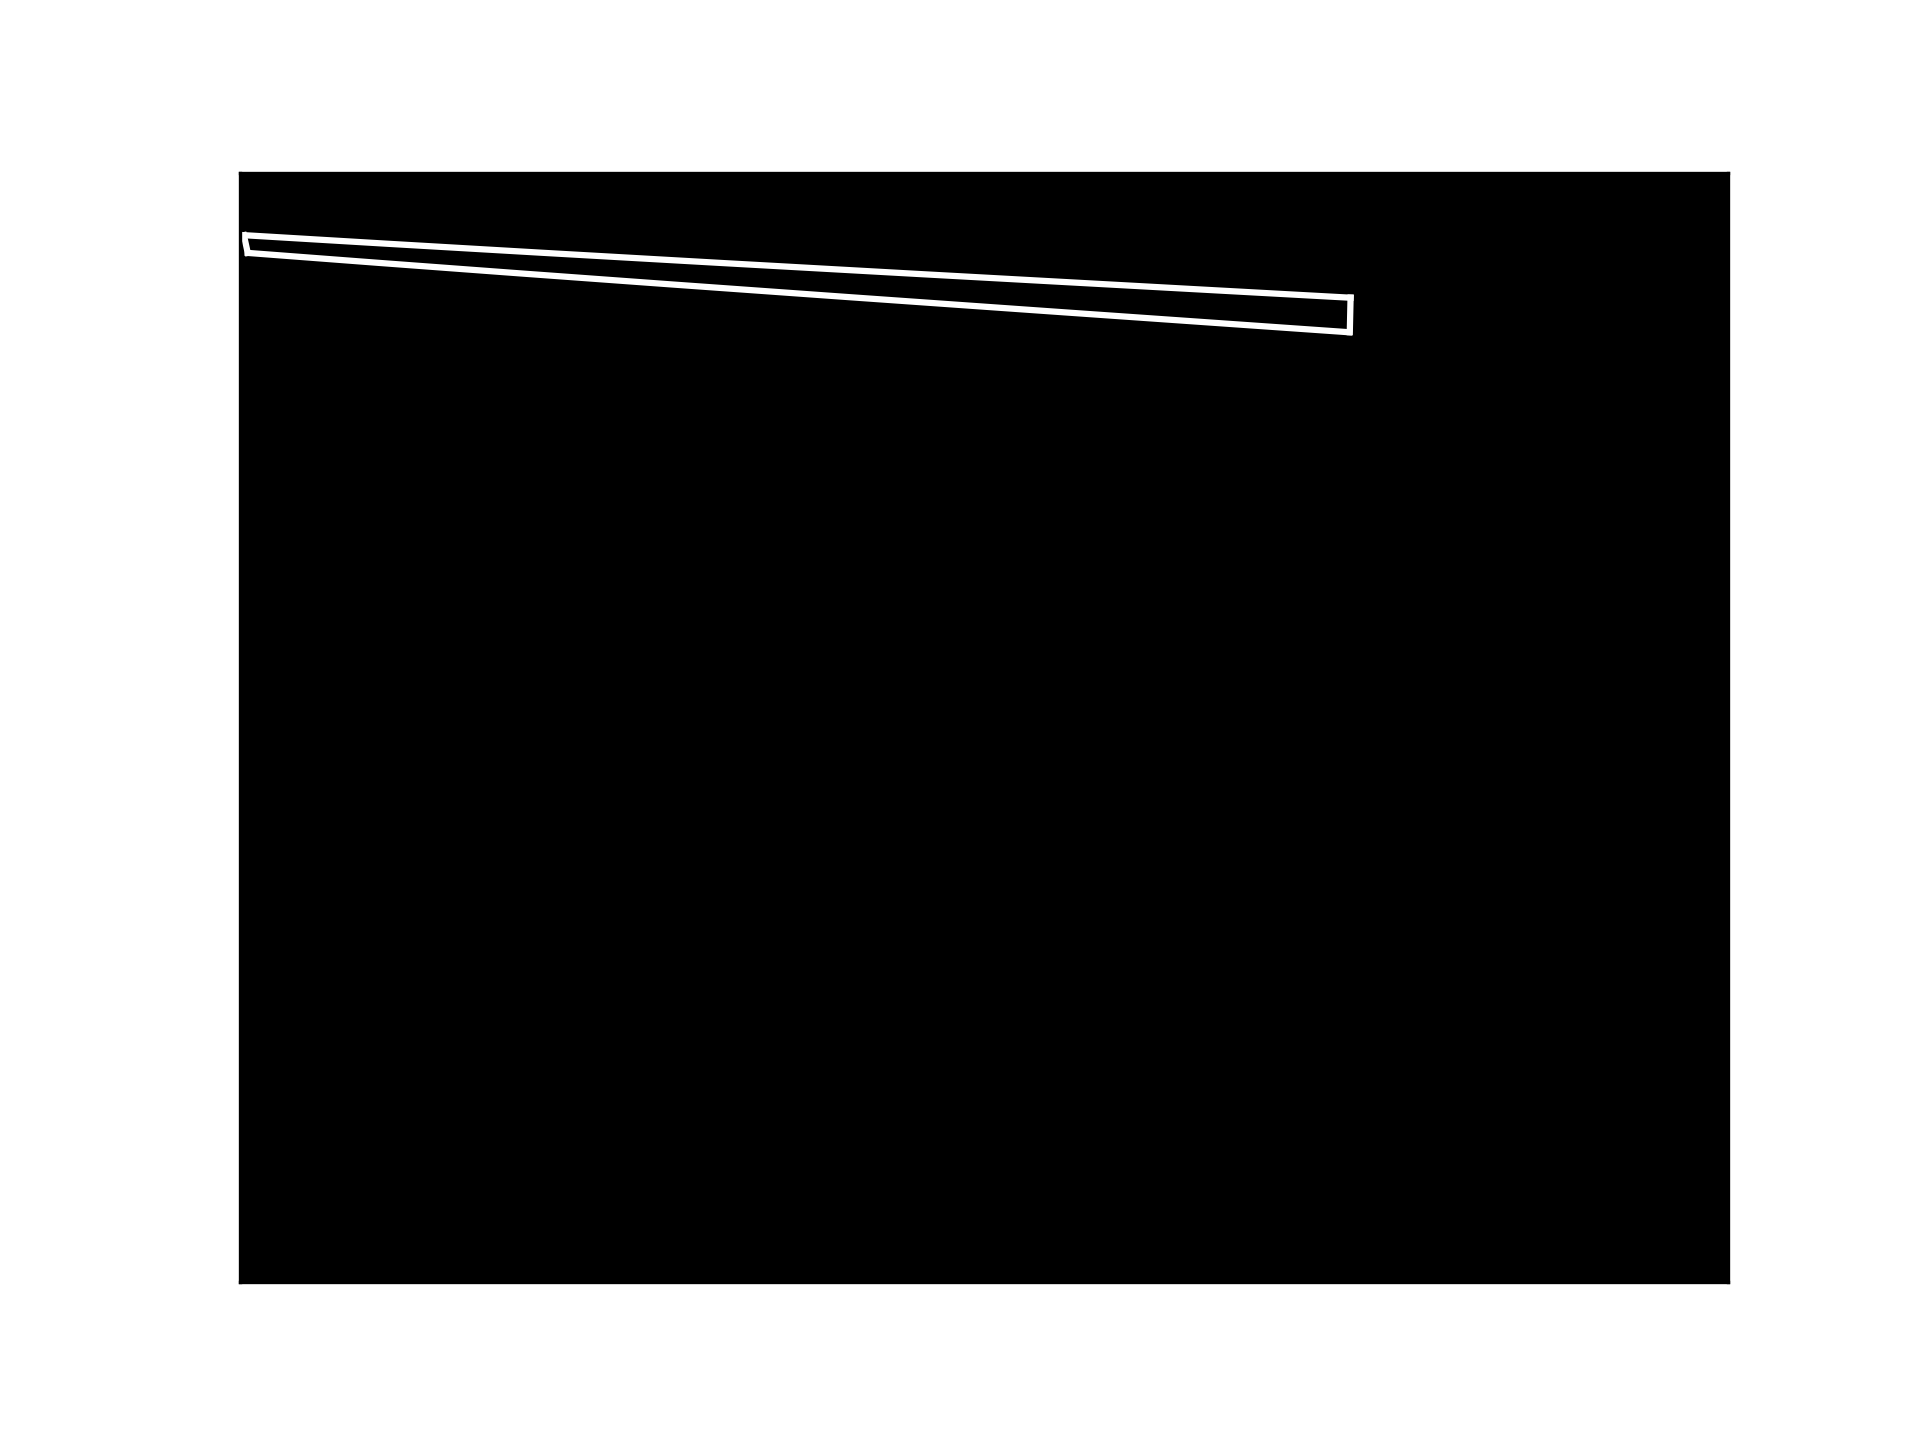
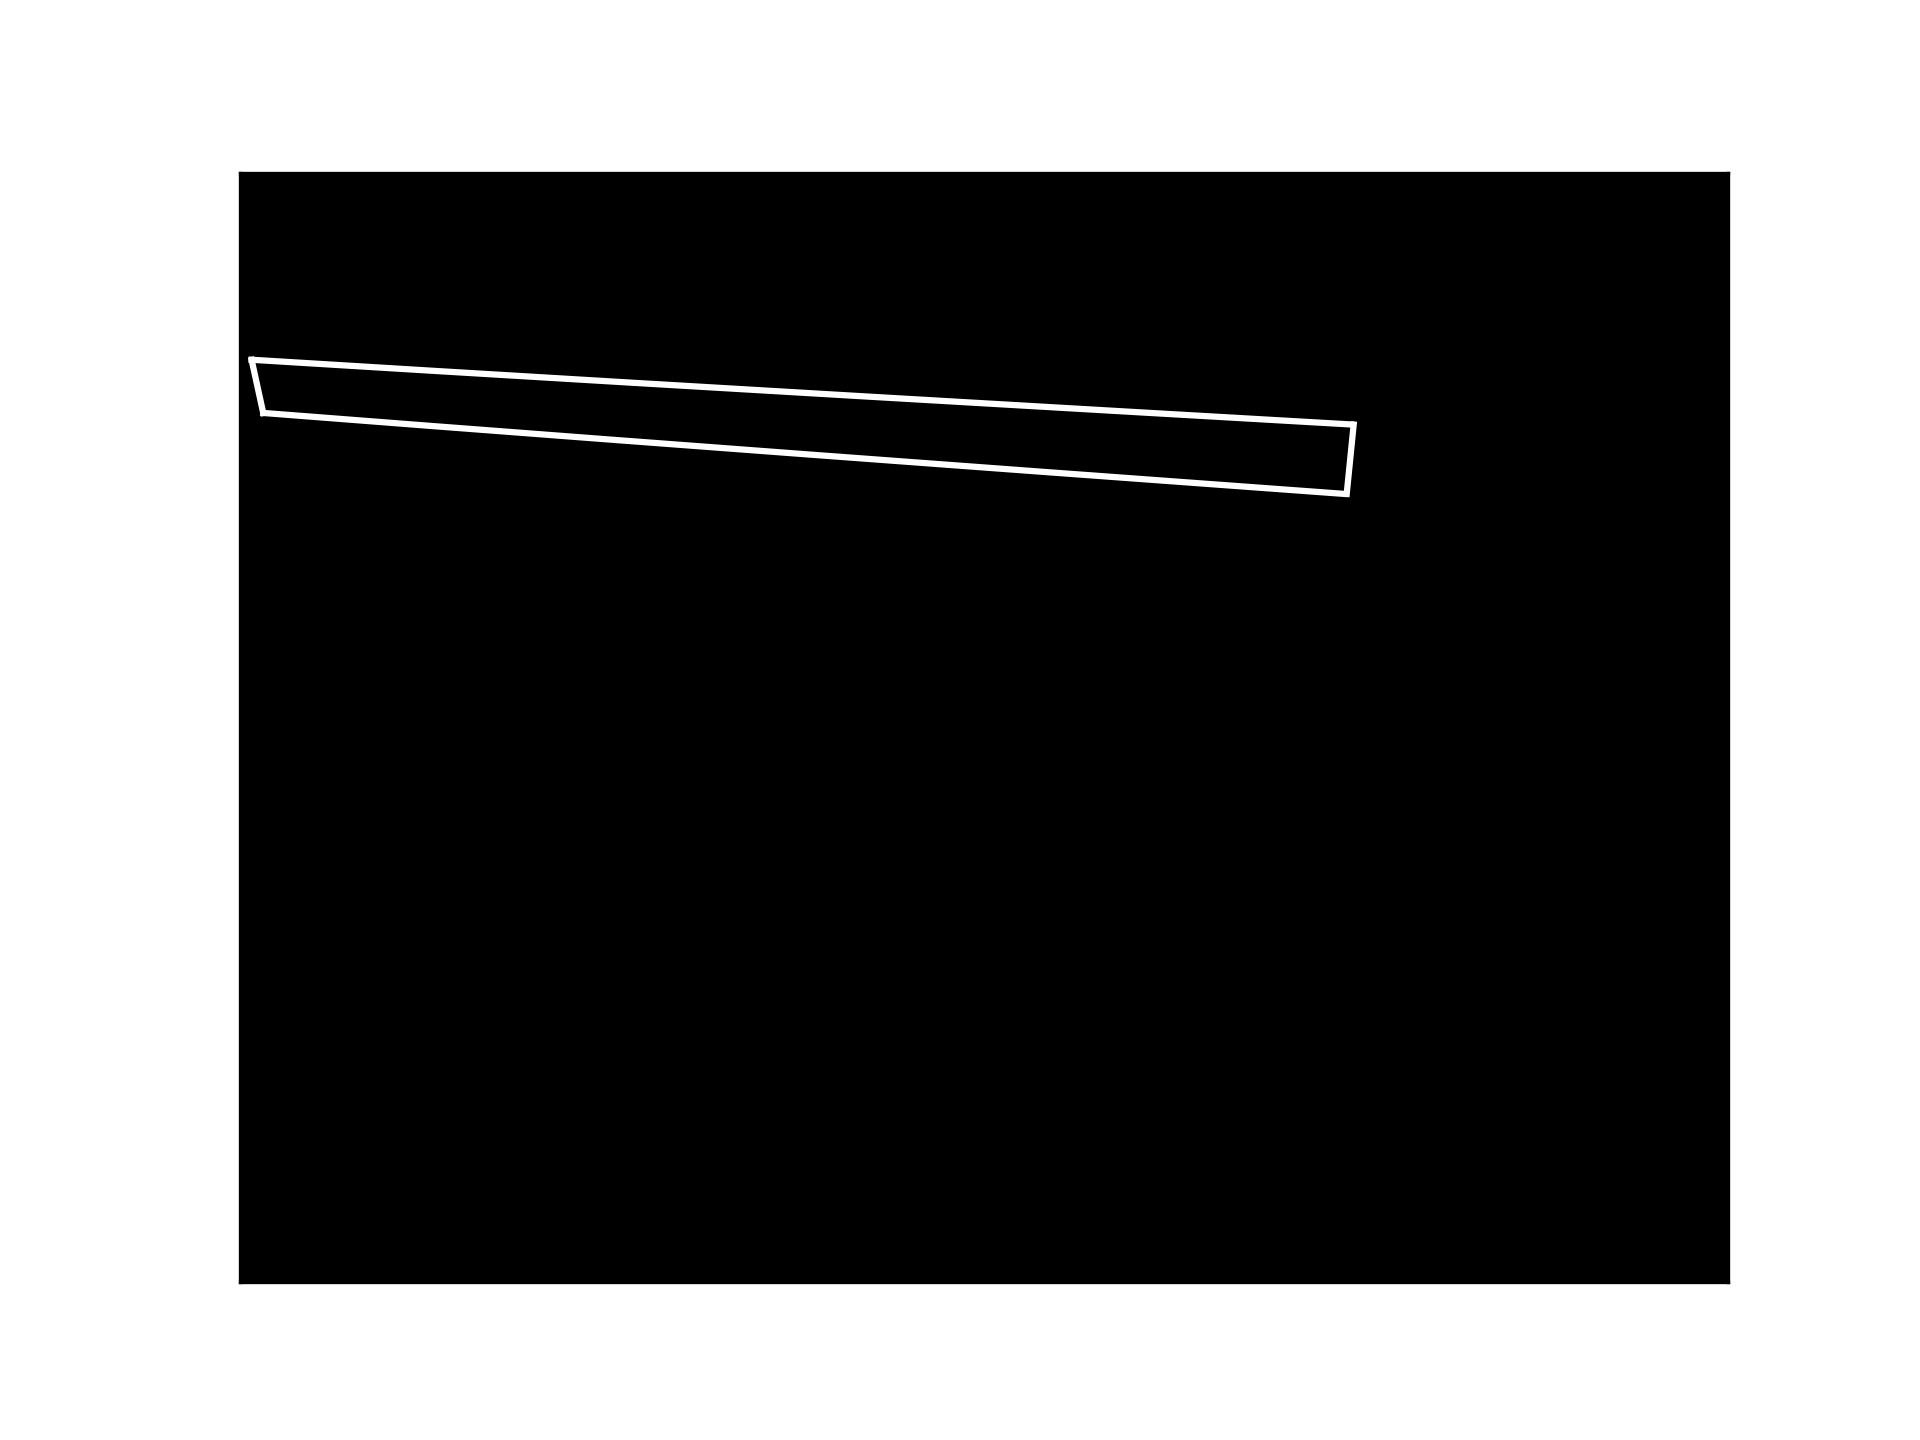
just for fun

Changed region(s): [[0.125, 0.1562, 0.7188, 0.25], [0.125, 0.25, 0.5312, 0.3125], [0.4062, 0.2812, 0.7188, 0.3438]]

diff --git a/arithmetic++/for_Image++.py b/arithmetic++/for_Image++.py
@@ -22,7 +22,7 @@ def f_1(x, A, B):
 def f_3(x, A, B, C, D):
     return A * x * x * x + B * x * x + C * x + D
 def plot_feasible_region():
-    x,y = np.arange(0,1.920,0.001),np.arange(0,1.440,0.001)
+    x,y = np.arange(0,0.64,0.001),np.arange(0,0.48,0.001)
     X_H1, Y_H1 = [], []
     X_H2, Y_H2 = [], []
     for x_key in x:
@@ -35,9 +35,7 @@ def plot_feasible_region():
             elif ky ==240:
                 x2, y2 = x_key * 1.0, y_key * 1.0
                 X_H2.append(y2), Y_H2.append(x2)
-    # 绘制散点
-    # plt.scatter(X_H1[:], Y_H1[:], 1, "red")
-    # plt.figure(num=None, figsize=None, dpi=300,  edgecolor=None, frameon=True)
+
     # 直线拟合与绘制数据准备
     X0, Y0 = [], []
     X0.append([X_H1[0], X_H2[0]]), X0.append([X_H1[-1], X_H2[-1]]), Y0.append([Y_H1[0], Y_H2[0]]), Y0.append([Y_H1[-1], Y_H2[-1]])
@@ -52,9 +50,15 @@ def plot_feasible_region():
     x4 = np.arange(X0[0][1], X0[1][1], 0.001)
     y4 = A3 * x4 * x4 * x4 + B3 * x4 * x4 + C3 * x4 + D3
     axes = plt.subplot(facecolor='black')
-    plt.xlim(0, 1.920)
+    ax = plt.gca()
+    '''ax.spines表示为设置脊梁，即四个边框'''
+    ax.spines["right"].set_color('black')
+    ax.spines["top"].set_color('black')
+    ax.spines["left"].set_color('black')
+    ax.spines["bottom"].set_color('black')
+    plt.xlim(0, 0.64)
     plt.xticks(())
-    plt.ylim(1.440, 0)
+    plt.ylim(0.48, 0)
     plt.yticks(())
     for i in range(len(X0)):  # 要连接的两个点的坐标
         axes.plot(X0[i], Y0[i], color='white')
@@ -68,6 +72,7 @@ def plot_feasible_region():
 
 if __name__=="__main__":
     plot_feasible_region()
+
 
 
 

diff --git a/arithmetic++/封闭区域找内切圆.py b/arithmetic++/封闭区域找内切圆.py
@@ -1,0 +1,38 @@
+# -*- coding: utf-8 -*-
+import cv2
+import cv2.cv2 as cv
+import numpy as np
+
+image=cv2.imread('/home/asus/PycharmProjects/Python class/arithmetic++/Figure_1.png')
+image_bin=cv2.cvtColor(image,cv2.COLOR_RGB2GRAY)
+
+retval,image_bin=cv2.threshold(image_bin,245,255,cv2.THRESH_BINARY_INV)
+
+
+contours, hierarchy = cv2.findContours(image_bin.copy(),cv2.RETR_CCOMP , cv2.CHAIN_APPROX_SIMPLE)
+print(len(contours))
+#
+
+# cv2.drawContours(image_bin, contours, -1, (0, 0, 255), 3)
+# cv2.namedWindow("img",0)
+# cv2.imshow("img", image_bin)
+# cv2.waitKey(0)
+
+image_with_contour=np.zeros(image.shape, np.uint8)
+dist=np.zeros((image.shape[0],image.shape[1]))
+#
+cv2.drawContours(image_with_contour,contours,-1,(255,255,255),1)
+#
+for ind_y in range(image.shape[0]):
+    for ind_x in range(image.shape[1]):
+        dist[ind_y,ind_x] = cv2.pointPolygonTest(contours[0],(ind_y,ind_x),True)
+#
+minVal, maxVal, minLoc, maxLoc = cv2.minMaxLoc(dist)
+print(maxVal, minLoc, maxLoc)
+cv2.circle(image,(maxLoc[1],maxLoc[0]),int(maxVal),(0, 255, 0),-1)
+
+cv2.imshow('original', image)
+cv2.imshow('contour', image_with_contour)
+
+cv2.waitKey(0)
+cv2.destroyAllWindows()

diff --git a/arithmetic++/双线型插值法/双线性插值反卷积.py b/arithmetic++/双线型插值法/双线性插值反卷积.py
@@ -1,7 +1,4 @@
-'''
-首先生成3*3*3的黑色图
 
-'''
 __author_ = "大魔王W"
 
 import numpy as np
